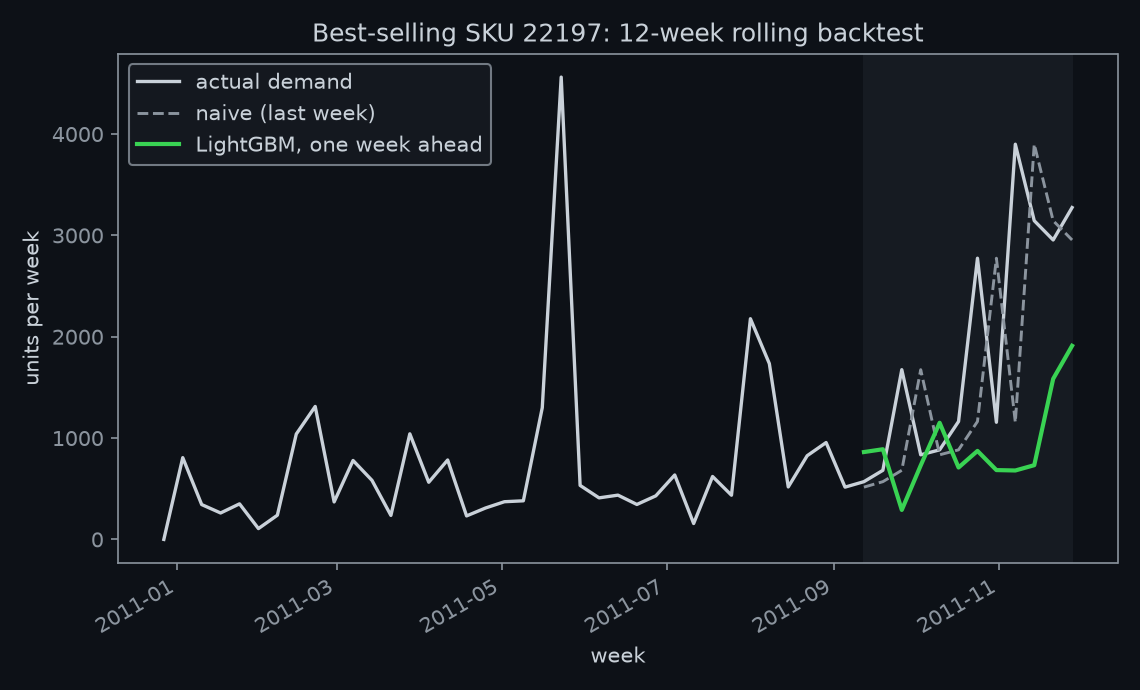
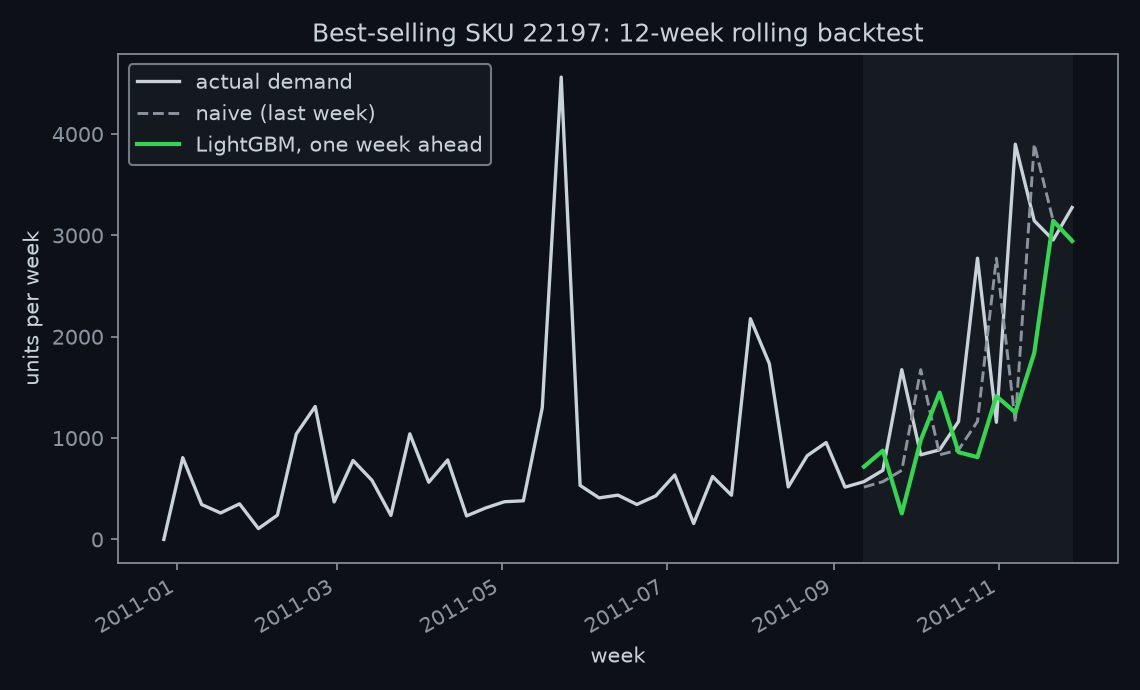
Council fixes: numeric week-of-year, stated statistical limits
Week-of-year as categorical could never match unseen values on one year
of data; numeric fixes it and improves LightGBM 748 to 683 RMSE. The
moving average still wins. Added stated limits: normality assumption in
the safety-stock factor, n=12 sigmas, holiday-regime test window, and
mandatory version pins. Rebuild sanity check in prepare_data.

Claude-Session: https://claude.ai/code/session_01GALSoh5AQRXMNgxcrC1dV9

Changed region(s): [[0.7368, 0.3652, 0.9518, 0.7], [0.9211, 0.3043, 0.9518, 0.3652], [0.7675, 0.7, 0.7982, 0.7304]]

diff --git a/prepare_data.py b/prepare_data.py
@@ -43,6 +43,8 @@ for sku, g in weekly.groupby("sku"):
     s = g.set_index("week")["units"].reindex(idx, fill_value=0)
     full.append(pd.DataFrame({"sku": sku, "week": idx, "units": s.values}))
 out = pd.concat(full, ignore_index=True)
+assert len(out) > 1000 and out["sku"].nunique() == TOP_N, \
+    "rebuild sanity check failed: source export may have changed"
 out.to_csv("data/weekly_demand.csv", index=False)
 print(f"wrote data/weekly_demand.csv: {out.sku.nunique()} skus x "
       f"{out.week.nunique()} weeks, {len(out)} rows")

diff --git a/restock.py b/restock.py
@@ -57,7 +57,7 @@ for wk in test_weeks:
                               subsample=0.8, colsample_bytree=0.8,
                               random_state=RNG, verbose=-1)
     model.fit(train[FEATURES], train["units"],
-              categorical_feature=["sku_id", "woy"])
+              categorical_feature=["sku_id"])
     test["pred_lgbm"] = np.clip(model.predict(test[FEATURES]), 0, None)
     test["pred_naive"] = test["lag1"]
     test["pred_ma4"] = test["ma4"]

diff --git a/README.md b/README.md
@@ -12,9 +12,9 @@ One-week-ahead demand forecasts, rolled forward over the last 12 weeks. Each wee
 |---|---|---|
 | Naive (last week's number) | 785 | 437 |
 | **4-week moving average** | **641** | **362** |
-| LightGBM (lags, moving average, seasonality, SKU) | 748 | 393 |
+| LightGBM (lags, moving average, week-of-year, SKU) | 683 | 406 |
 
-The moving average wins. LightGBM got a fair fight, not a token one: a Tweedie objective for skewed counts (890), a log-transformed target (743), smaller trees (871), and an L1 objective (780) were all tried, and every variant still lost to the 4-week average.
+The moving average wins. LightGBM got a fair fight, not a token one: a Tweedie objective for skewed counts (762), a log-transformed target (748), smaller trees (752), and an L1 objective (762) were all tried, and every variant still lost to the 4-week average. An adversarial review pass also caught week-of-year being fed in as a categorical the model could never match on one year of data; fixing it to numeric improved LightGBM from 748 to 683 RMSE, and the baseline still won.
 
 ![Backtest on the best-selling SKU](figures/backtest-top-sku.png)
 
@@ -26,7 +26,7 @@ Forecast error is not an abstract number; it sets the safety stock you must hold
 
 ![Safety stock by method](figures/safety-stock.png)
 
-Switching from naive forecasting to the moving average frees 4,461 units of safety stock across 24 SKUs at the same service level. That is the sentence a plant manager cares about, and it comes from the forecast, not from the warehouse.
+Switching from naive forecasting to the moving average frees 4,460 units of safety stock across 24 SKUs at the same service level. That is the sentence a plant manager cares about, and it comes from the forecast, not from the warehouse.
 
 ## Decisions, and why
 
@@ -35,6 +35,13 @@ Switching from naive forecasting to the moving average frees 4,461 units of safe
 - **Demand means orders.** Cancellations, returns, and non-product codes (postage, bank charges) are removed, and each SKU's series starts at its first sale so pre-launch zeros do not read as demand.
 - **Scored in units of stock.** RMSE decides the ranking; safety stock states the consequence.
 - **The losing model stays in the repo.** Deleting LightGBM after it lost would make this a story instead of an experiment.
+
+## Stated limits
+
+- The safety-stock conversion assumes normally distributed forecast errors (the 1.645 factor). Retail demand errors are right-skewed, so these totals illustrate the conversion; a procurement decision would use empirical quantiles.
+- Each per-SKU error sigma comes from 12 backtest residuals, so the stock totals are point estimates, not tight ones.
+- The backtest window covers the autumn ramp into the holidays, the hardest regime for a model that has never seen a December. In a stable season the ranking could narrow; with several years of history it could flip. That is the regime argument, and this dataset cannot settle it.
+- The pinned versions in requirements.txt are mandatory, not a suggestion; the code uses pandas 3.0 APIs.
 
 ## Run it
 
